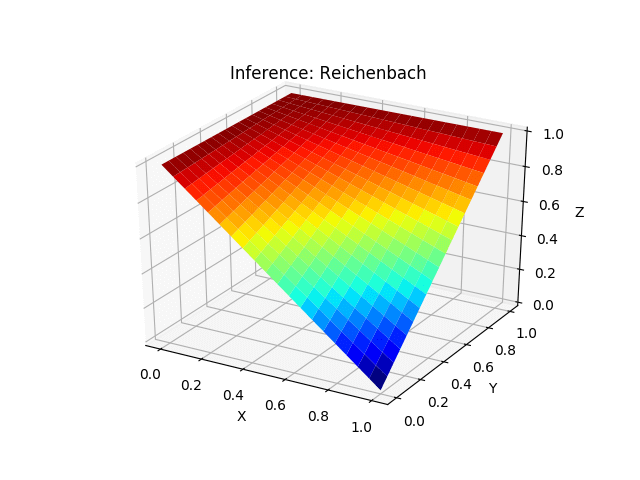
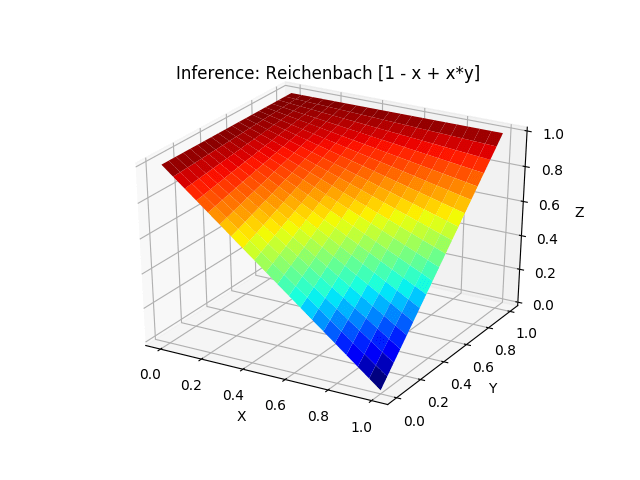
Code cleanup

Changed region(s): [[0.2812, 0.125, 0.75, 0.1875]]

diff --git a/fuzzy-operators-visualization.py b/fuzzy-operators-visualization.py
@@ -1,113 +1,37 @@
 from mpl_toolkits.mplot3d import Axes3D
 import matplotlib.pyplot as plt
-from matplotlib import cm
 import numpy as np
 
-
-# Intersection
-
-def average(x, y):
-    return (x + y) / 2
-
-
-def product(x, y):
-    return x * y
-
-
-def limited_difference(x, y):
-    return max(0, x + y - 1)
-
-
-def drastic_intersection(x, y):
-    if y == 1:
-        return x
-    elif x == 1:
-        return y
-    else:
-        return 0
-
-
-# Union
-
-def average_2(x, y):
-    return (2 * min(x, y) + 4 * max(x, y)) / 6
-
-
-def algebraic_sum(x, y):
-    return x + y - x * y
-
-
-def boundary_sum(x, y):
-    return min(1, x + y)
-
-
-def drastic_union(x, y):
-    if y == 0:
-        return x
-    elif x == 0:
-        return y
-    else:
-        return 1
-
-
-# Inference
-
-def gaines(x, y):
-    return 1 if x <= y else 0
-
-
-def godel(x, y):
-    return 1 if x <= y else y
-
-
-def goguen(x, y):
-    return 1 if x <= y else y / x
-
-
-def kleene(x, y):
-    return max(1 - x, y)
-
-
-def reichenbach(x, y):
-    return 1 - x + x * y
-
-
-def klir_yuan(x, y):
-    return 1 - x + (x ** 2) * y
-
-
-def zadeh(x, y):
-    return max(1 - x, min(x, y))
-
-
-def lukasiewicz(x, y):
-    return min(1, 1 - x + y)
+# Number of tiles per axis
+TILES = 20
+# Colormap reference at https://matplotlib.org/users/colormaps.html#grayscale-conversion
+COLOR_MAP = 'jet'
 
 
 modes = (
     ('Intersection', (
-        ('Minimum', min),
-        ('Average', average),
-        ('Product', product),
-        ('Limited difference', limited_difference),
-        ('Drastic intersection', drastic_intersection),
+        ('Minimum', 'min(x, y)'),
+        ('Average', '(x + y)/2'),
+        ('Product', 'x * y'),
+        ('Limited difference', 'max(0, x + y - 1)'),
+        ('Drastic intersection', 'x if y == 1 else y if x == 1 else 0'),
     )),
     ('Union', (
-        ('Maximum', max),
-        ('Average', average_2),
-        ('Algebraic sum', algebraic_sum),
-        ('Boundary sum', boundary_sum),
-        ('Drastic union', drastic_union),
+        ('Maximum', 'max(x, y)'),
+        ('Average', '(2*min(x, y) + 4*max(x, y))/6'),
+        ('Algebraic sum', 'x + y - x*y'),
+        ('Boundary sum', 'min(1, x + y)'),
+        ('Drastic union', 'x if y == 0 else y if x == 0 else 1'),
     )),
     ('Inference', (
-        ('Gaines', gaines),
-        ('Godel', godel),
-        ('Goguen', goguen),
-        ('Kleene', kleene),
-        ('Reichenbach', reichenbach),
-        ('Klir-Yuan', klir_yuan),
-        ('Zadeh', zadeh),
-        ('Lukasiewicz', lukasiewicz),
+        ('Gaines', '1 if x <= y else 0'),
+        ('Godel', '1 if x <= y else y'),
+        ('Goguen', '1 if x <= y else y/x'),
+        ('Kleene', 'max(1 - x, y)'),
+        ('Reichenbach', '1 - x + x*y'),
+        ('Klir-Yuan', '1 - x + (x**2) * y'),
+        ('Zadeh', 'max(1 - x, min(x, y))'),
+        ('Lukasiewicz', 'min(1, 1 - x + y)'),
     )),
 )
 
@@ -118,21 +42,20 @@ for mode in modes:
         fig = plt.figure()
         ax = fig.gca(projection='3d')
         fig.canvas.set_window_title('{}: {}'.format(mode[0], fun[0]))
-        ax.set_title('{}: {}'.format(mode[0], fun[0]))
+        ax.set_title('{}: {} [{}]'.format(mode[0], fun[0], fun[1]))
 
         if mode[0] != 'Inference':
             plt.gca().invert_xaxis()
 
-        # Make data (from 0 to 1 in 20 steps)
-        X = np.linspace(0, 1, 20)
-        Y = np.linspace(0, 1, 20)
+        # Make data (from 0 to 1 in TILES steps)
+        X = np.linspace(0, 1, TILES)
+        Y = np.linspace(0, 1, TILES)
         X, Y = np.meshgrid(X, Y)
-        zs = np.array([fun[1](x, y) for x, y in zip(np.ravel(X), np.ravel(Y))])
+        zs = np.array([eval(fun[1]) for x, y in zip(np.ravel(X), np.ravel(Y))])
         Z = zs.reshape(X.shape)
 
         # Plot the surface.
-        # Colormap from https://matplotlib.org/users/colormaps.html#grayscale-conversion
-        surf = ax.plot_surface(X, Y, Z, cmap=cm.jet)
+        surf = ax.plot_surface(X, Y, Z, cmap=COLOR_MAP)
 
         ax.set_xlabel('X')
         ax.set_ylabel('Y')
@@ -140,6 +63,5 @@ for mode in modes:
 
         # To generate the images
         # fig.savefig('images/{}_{}.png'.format(mode[0].lower(), fun[0].lower().replace(' ', '_')))
-        # print('{} - images/{}_{}.png'.format(fun[0], mode[0].lower(), fun[0].lower().replace(' ', '_')))
 
 plt.show()

diff --git a/README.md b/README.md
@@ -1,5 +1,17 @@
 # Visual representation of some operators of fuzzy logic
 
+To run it you'll need matplotlib.
+You can setup a virtual environment inside the project folder with
+
+    virtualenv -p python3 venv
+    source venv/bin/activate
+    pip install -r requirements.txt
+
+The two values that can be easily adjusted in the code are `TILES` and `COLOR_MAP`.
+- Increasing or decreasing the value of `TILES` makes the figure more or less fine-grained.
+- Possible values to assign to `COLOR_MAP` can be found in this 
+[colormap reference](https://matplotlib.org/users/colormaps.html#grayscale-conversion).
+
 ## Intersection
 ![Minimum](images/intersection_minimum.png)
 ![Average](images/intersection_average.png)
